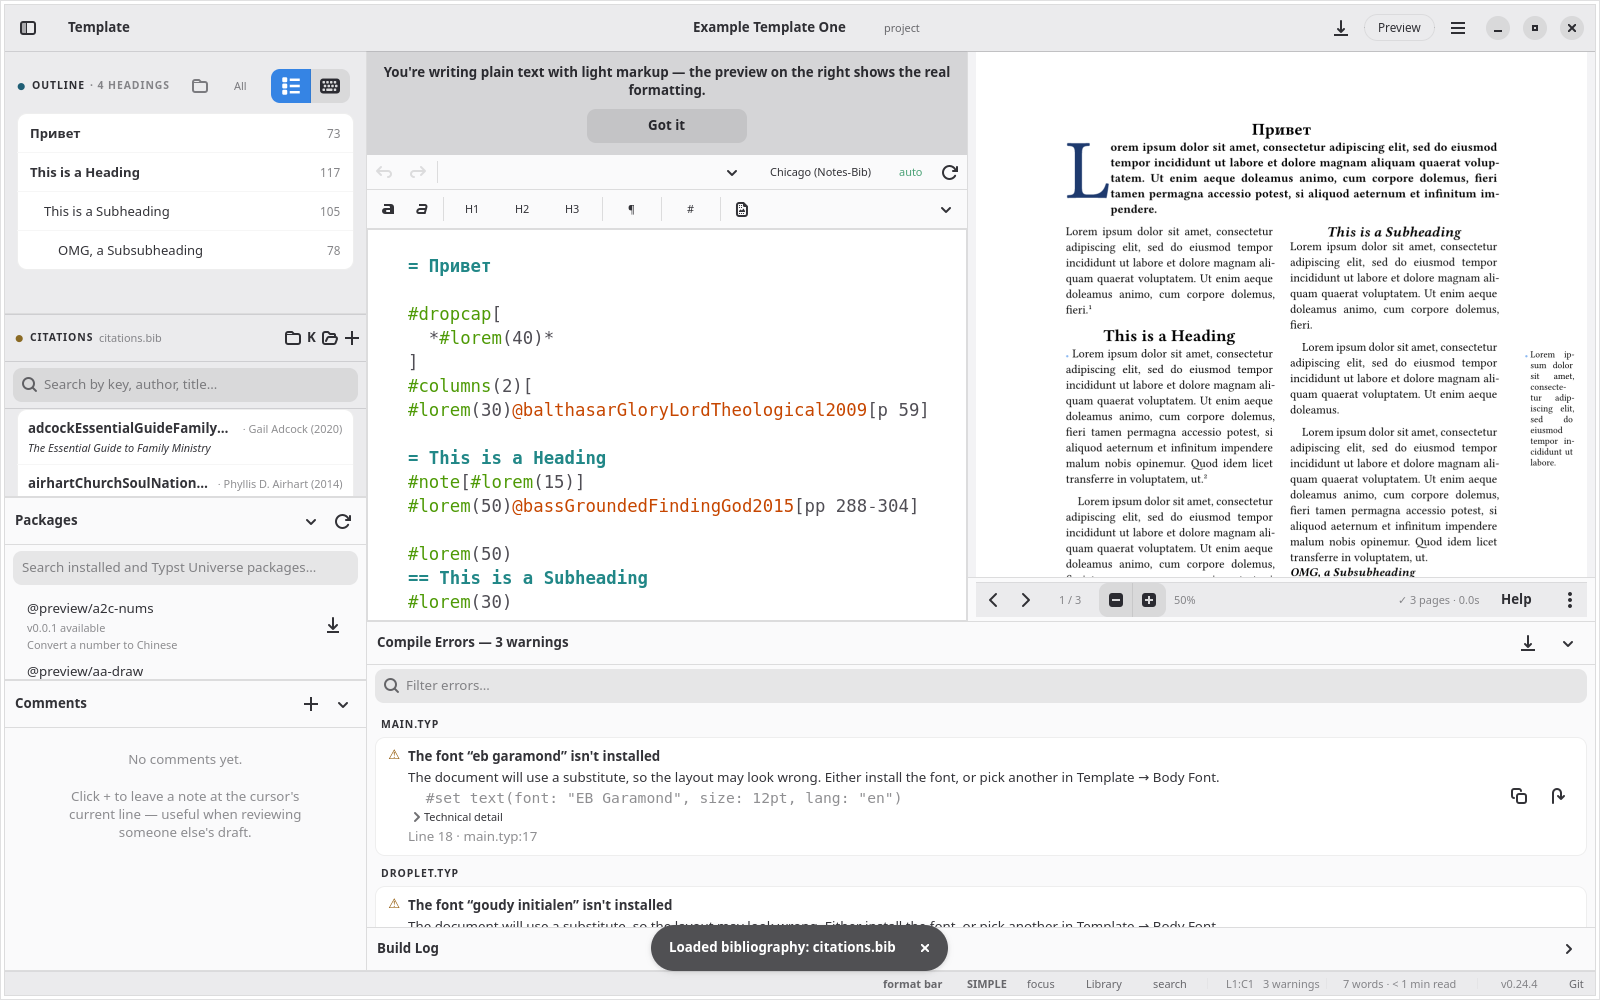
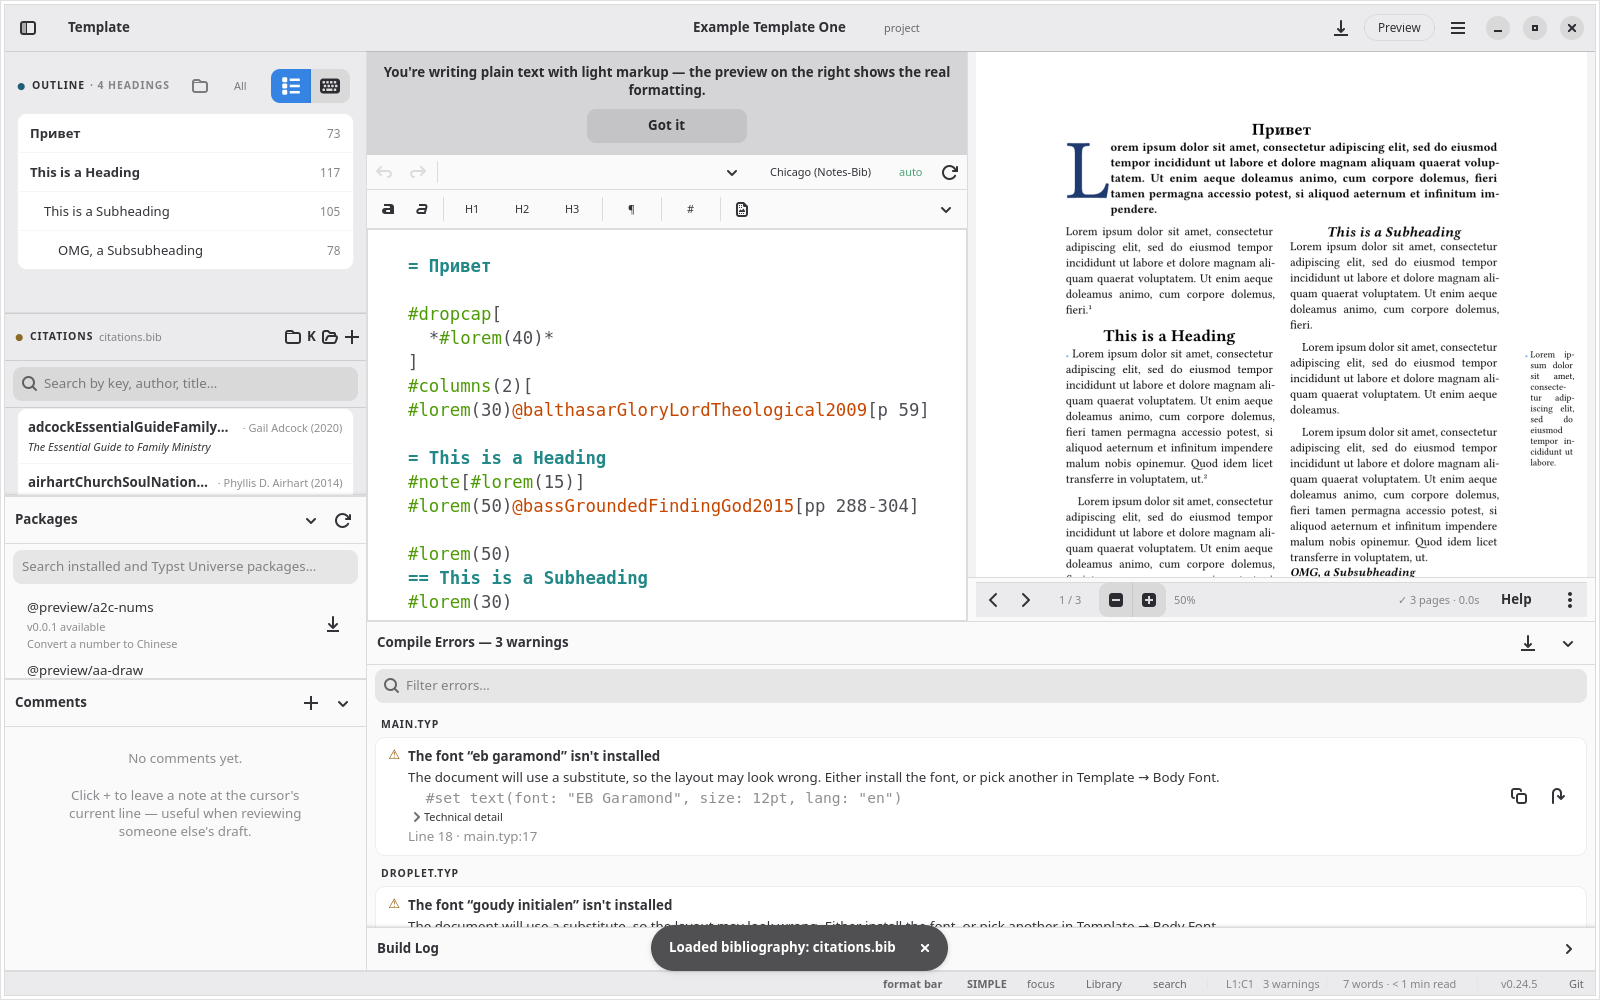
v0.24.5 "Clear Glass" — rusqlite/hayagriva updated
Claude-Session: https://claude.ai/code/session_014YR61JNvebQtaSNm3Rntt4

diff --git a/src/ui/welcome_window.rs b/src/ui/welcome_window.rs
@@ -7,7 +7,7 @@ use gtk4::{Align, Box as GtkBox, Button, Label, Orientation, ScrolledWindow, Sep
 use libadwaita as adw;
 
 const VERSION: &str = env!("CARGO_PKG_VERSION");
-pub const RELEASE_NAME: &str = "Sound Footing";
+pub const RELEASE_NAME: &str = "Clear Glass";
 
 pub struct WelcomeWindow {
     window: adw::Window,

diff --git a/RELEASE.md b/RELEASE.md
@@ -1,4 +1,4 @@
-# Zerkalo v0.24.4 "Sound Footing"
+# Zerkalo v0.24.5 "Clear Glass"
 
 Install via Flatpak:
 
@@ -18,11 +18,7 @@ flatpak update io.github.calstfrancis.Zerkalo
 
 ### What's new
 
-**Save, Autosave, and closing the window could all silently fail on a write error** — a full disk, a permissions problem — instead of telling you. The worst case: choosing "Save All" from the "Save before closing?" dialog closed the window even if the save itself failed, discarding the unsaved document with no recovery path. Save and Autosave now show a toast when a write fails, and the window-close dialog now stays open and names the files that didn't save, instead of closing regardless.
-
-**Printing with an imposition layout (booklet, two-up) could briefly freeze the app** on a large document — the page-rearrangement work ran on the main thread before the print job even started sending. It now runs on the same background thread the print job already used.
-
-Also updates the GTK4/libadwaita/GtkSourceView toolkit bindings to their current releases (no user-visible change, but closes several years of upstream bug and soundness fixes) and fixes two dependency security advisories flagged by a newly-added `cargo audit` CI check.
+No user-visible changes in this release. It updates the `rusqlite` and `hayagriva` dependencies to their current releases — both were blocked on an upstream Kartoteka pin, and Kartoteka just released a version with matching updates (which also fixed an intermittent search-index rebuild race and closed two dependency security advisories on its own side).
 
 ---
 

diff --git a/CHANGELOG.md b/CHANGELOG.md
@@ -5,6 +5,18 @@ Format follows [Keep a Changelog](https://keepachangelog.com/en/1.1.0/).
 
 ---
 
+## [0.24.5] "Clear Glass" — 2026-08-19 — rusqlite/hayagriva updated
+
+### Internal
+
+- Updated `rusqlite` (0.32→0.40) and `hayagriva` (0.9→0.10) — no user-visible
+  change. Both were blocked on Kartoteka's own dependency pins; Kartoteka
+  released v0.5.1 with matching versions, which also fixed an intermittent
+  search-index rebuild race and closed two dependency security advisories
+  on its own side. `fond-bib`/`fond-vault` now point at that release.
+
+---
+
 ## [0.24.4] "Sound Footing" — 2026-08-18 — Save reliability, a print freeze fix, and dependency/security updates
 
 ### Fixed
